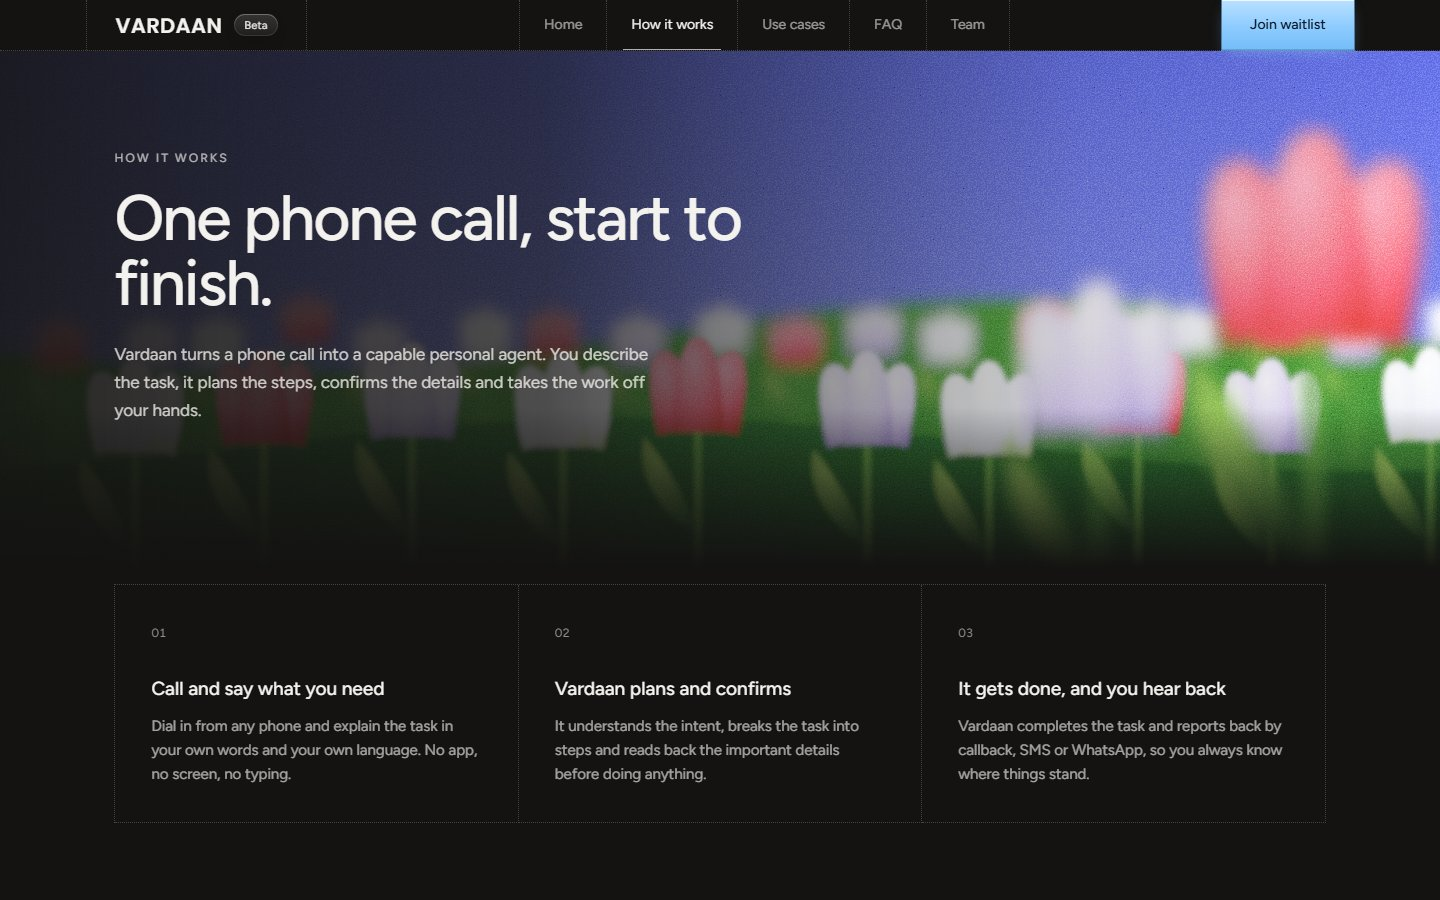
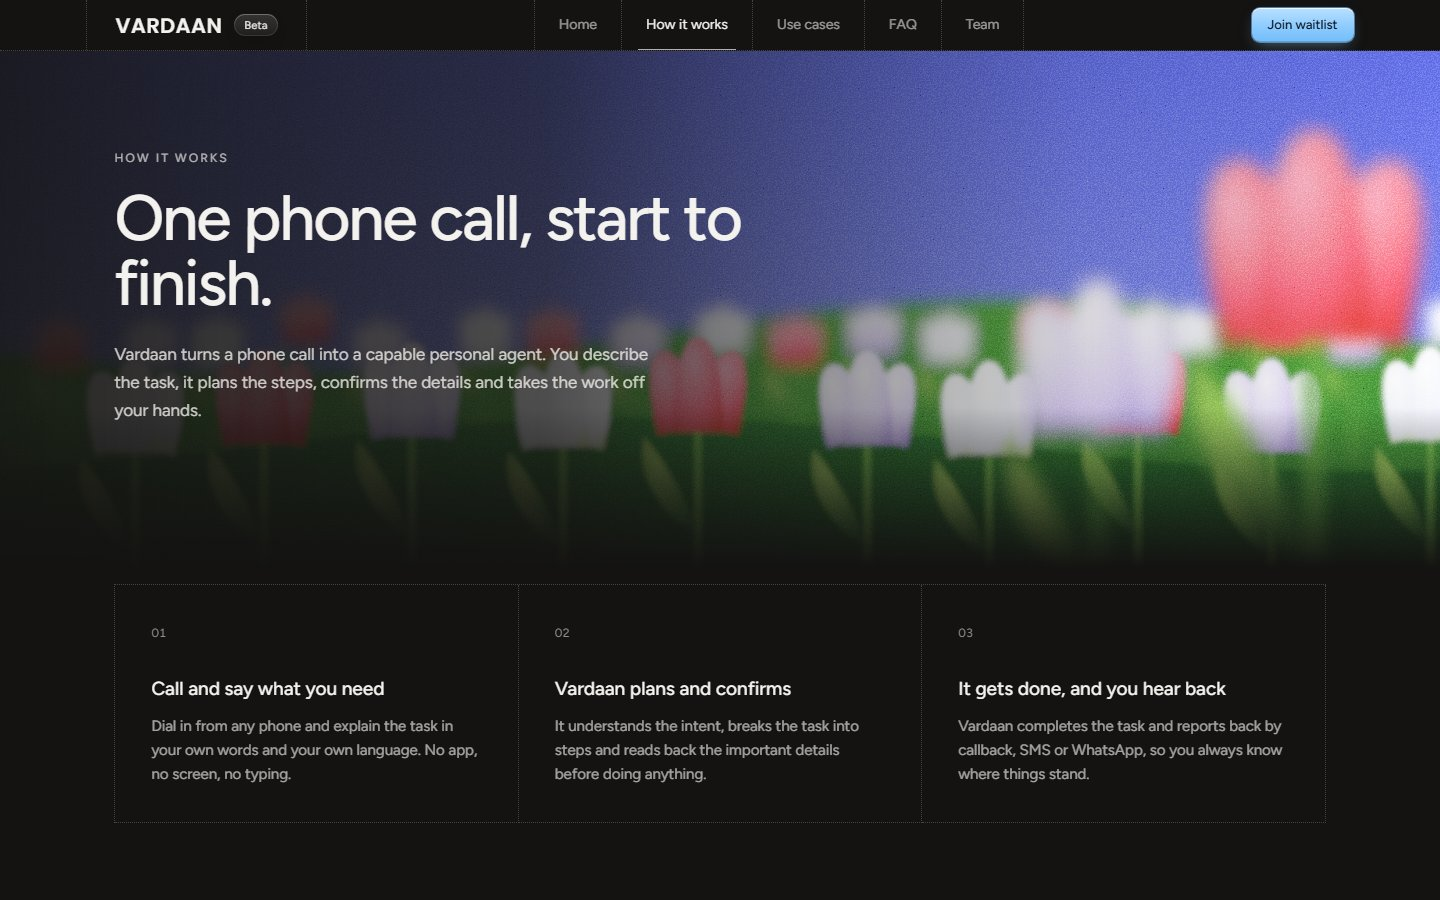
Responsive pass for all screen sizes; README screenshots refreshed
- Tested 320px to 2560px including landscape phones and short laptops
- Smaller form padding on tiny phones; navbar scales slightly on big monitors
- README: desktop and mobile home shots plus a grid of every page

diff --git a/components/SiteNav.tsx b/components/SiteNav.tsx
@@ -40,17 +40,17 @@ export default function SiteNav() {
           className="nav-grid ml-[max(1rem,6vw)] flex items-center gap-3 border-x px-4 py-3.5 sm:px-7"
           aria-label="Vardaan Beta home"
         >
-          <span className="font-poster text-[21px] font-semibold uppercase leading-none tracking-[0.02em] text-ink">Vardaan</span>
+          <span className="font-poster text-[19px] font-semibold uppercase leading-none tracking-[0.02em] text-ink sm:text-[21px] 2xl:text-[24px]">Vardaan</span>
           <span className="beta-glass">Beta</span>
         </Link>
 
         <div className="mx-auto hidden items-stretch lg:flex">
-          {links("nav-grid relative flex items-center whitespace-nowrap border-r px-5 text-[14px] first:border-l xl:px-6")}
+          {links("nav-grid relative flex items-center whitespace-nowrap border-r px-5 text-[14px] first:border-l xl:px-6 2xl:px-8 2xl:text-[15px]")}
         </div>
 
         <Link
           href="/#join"
-          className="waitlist-button my-auto ml-auto mr-[max(1rem,6vw)] flex h-8 items-center whitespace-nowrap rounded-[8px] px-3 text-[12px] lg:ml-0 sm:h-[34px] sm:px-4 sm:text-[13px]"
+          className="waitlist-button my-auto ml-auto mr-[max(1rem,6vw)] flex h-8 items-center whitespace-nowrap rounded-[8px] px-3 text-[12px] lg:ml-0 sm:h-[34px] sm:px-4 sm:text-[13px] 2xl:h-10 2xl:px-5 2xl:text-[14px]"
         >
           Join waitlist
         </Link>

diff --git a/app/page.tsx b/app/page.tsx
@@ -23,7 +23,7 @@ export default function Home() {
 
         <SiteNav />
 
-        {/* Split screen: the letter on the left, the full poster on a graph-paper panel on the right. */}
+        {/* Split screen: the letter on the left, the full poster on the right. */}
         <main className="grid min-h-0 flex-1 grid-cols-1 grid-rows-[auto_minmax(0,1fr)] lg:grid-cols-2 lg:grid-rows-1">
           <div className="flex min-h-0 min-w-0 flex-col justify-between gap-6 px-[max(1.5rem,calc(6vw+1.75rem))] py-7 lg:py-[clamp(28px,7vh,72px)] lg:pr-12">
             <div className="lg:pt-[clamp(8px,4vh,40px)]">
@@ -51,7 +51,7 @@ export default function Home() {
               </p>
             </div>
 
-            <div id="join" className="reveal max-w-[440px] scroll-mt-24" style={step(3)}>
+            <div id="join" className="reveal max-w-[440px] scroll-mt-24 2xl:max-w-[480px]" style={step(3)}>
               <WaitlistForm id="hero" />
               <p className="mt-3 pl-1 text-[13px] text-mute">
                 Beta spots open for <span className="text-ink"><NextMonth /></span>

diff --git a/components/WaitlistForm.tsx b/components/WaitlistForm.tsx
@@ -60,12 +60,12 @@ export default function WaitlistForm({ id }: { id?: string }) {
             setEmail(e.target.value);
             if (status === "error") setStatus("idle");
           }}
-          className="h-11 min-w-0 flex-1 bg-transparent px-3 text-[15px] text-ink caret-ink outline-none"
+          className="h-11 min-w-0 flex-1 bg-transparent px-2.5 text-[14px] text-ink caret-ink outline-none sm:px-3 sm:text-[15px]"
         />
         <button
           type="submit"
           disabled={status === "loading"}
-          className="waitlist-button h-11 shrink-0 cursor-pointer rounded-[10px] px-5 text-[14px] disabled:cursor-wait disabled:opacity-70"
+          className="waitlist-button h-11 shrink-0 cursor-pointer rounded-[10px] px-3.5 text-[13px] disabled:cursor-wait disabled:opacity-70 sm:px-5 sm:text-[14px]"
         >
           {status === "loading" ? "Joining…" : "Join waitlist"}
         </button>

diff --git a/README.md b/README.md
@@ -6,7 +6,11 @@ Vardaan is a voice-first AI agent. You call it, say what you need in your own la
 
 This repository contains the Vardaan website: the beta landing page, the waitlist and the product pages.
 
-![Vardaan landing page](docs/home.jpg)
+<p align="center">
+  <img src="docs/home.jpg" alt="Vardaan landing page on desktop" width="78%" />
+  &nbsp;
+  <img src="docs/home-mobile.jpg" alt="Vardaan landing page on a phone" width="18%" />
+</p>
 
 ---
 
@@ -53,7 +57,11 @@ Vardaan remembers preferences and context, and when information is missing or a 
 | `/team` | The Fantastic 4 team: photos, roles and website, GitHub and LinkedIn links |
 | `/api/waitlist` | `POST` endpoint that stores waitlist emails |
 
-![How it works page](docs/how-it-works.jpg)
+| How it works | Use cases |
+|---|---|
+| ![How it works page](docs/how-it-works.jpg) | ![Use cases page](docs/use-cases.jpg) |
+| **FAQ** | **Team** |
+| ![FAQ page](docs/faq.jpg) | ![Team page](docs/team.jpg) |
 
 Highlights:
 
@@ -62,7 +70,7 @@ Highlights:
 - **Hidden footer** that slides up when you scroll or swipe past the end of the page.
 - **Team page** with portraits tinted in the poster palette, name, role and link icons set on each photo.
 - **Small details**: a glowing "New" tag, a glassy waitlist form, a "Beta spots open for …" line that always names next month, and a favicon drawn from the same flower art.
-- **Accessible and responsive**: tested at 360, 390, 768, 1024 and 1440px with no horizontal scrolling; the landing page fits one screen at every size. Respects `prefers-reduced-motion` and keeps keyboard focus visible.
+- **Accessible and responsive**: tested from 320px phones and landscape phones through tablets and laptops to 1920px and 2560px monitors, with no horizontal scrolling; the landing page fits one screen on everything except the very smallest phones. Respects `prefers-reduced-motion` and keeps keyboard focus visible.
 
 ---
 
@@ -193,8 +201,6 @@ To deploy your own copy:
 ## Team
 
 Built by **Fantastic 4**.
-
-![Team page](docs/team.jpg)
 
 | Name | Role | Links |
 |---|---|---|
